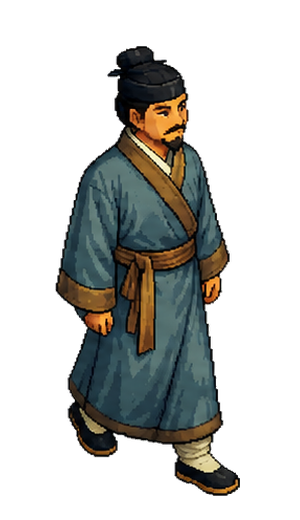
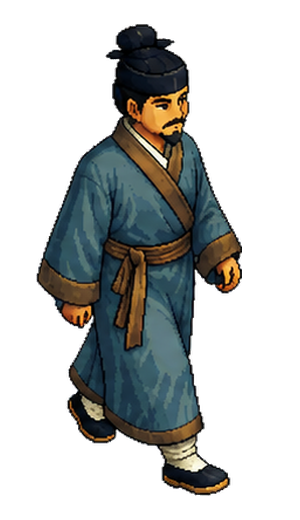
Mecenas: ciclo de andar ordenado a mano (alterna) + cabeza estable
La tira de IA estaba desbalanceada (casi todo un pie delante) y mi
normalización por-frame hacía "pulsar" el tamaño (la cabeza saltaba).

- Orden manual del ciclo de 4 tiempos con alternancia real: pie izq
  delante → paso (pies juntos) → pie dcho delante → paso. Elegidos a mano
  los dos únicos frames de zancada opuesta + las poses de pies juntos.
- Escala GLOBAL única (no por-frame) → sin pulsación de tamaño.
- Cuerpo/cabeza CONGELADO del frame base en los 4 fotogramas: solo animan
  los pies bajo el bajo de la túnica → cero temblor de cabeza.
- Verificado en el motor (captura en vivo de un mecenas andando).

Changed region(s): [[0.12, 0.0308, 0.81, 0.9538]]

diff --git a/admin-haciendas.html b/admin-haciendas.html
@@ -136,7 +136,7 @@
 <script src="assets/js/hac-store.js?v=5"></script>
 <script src="assets/js/hac-tareas.js?v=2"></script>
 <script src="assets/js/personajes-data.js?v=2"></script>
-<script src="assets/js/hac-char.js?v=8"></script>
+<script src="assets/js/hac-char.js?v=9"></script>
 <script src="assets/js/hac-personajes.js?v=3"></script>
 <script src="assets/js/hac-solicitudes.js?v=2"></script>
 <script src="assets/js/hac-perfiles.js?v=1"></script>

diff --git a/haciendas.html b/haciendas.html
@@ -76,7 +76,7 @@
 <script src="assets/js/hac-store.js?v=5"></script>
 <script src="assets/js/hac-tareas.js?v=2"></script>
 <script src="assets/js/personajes-data.js?v=2"></script>
-<script src="assets/js/hac-char.js?v=8"></script>
+<script src="assets/js/hac-char.js?v=9"></script>
 <script src="assets/js/hac-personajes.js?v=3"></script>
 <script src="assets/js/hac-solicitudes.js?v=2"></script>
 <script src="assets/js/hac-render.js?v=4"></script>

diff --git a/hacienda.html b/hacienda.html
@@ -35,7 +35,7 @@
 <script src="assets/js/hac-store.js?v=5"></script>
 <script src="assets/js/hac-tareas.js?v=2"></script>
 <script src="assets/js/personajes-data.js?v=2"></script>
-<script src="assets/js/hac-char.js?v=8"></script>
+<script src="assets/js/hac-char.js?v=9"></script>
 <script src="assets/js/hac-personajes.js?v=1"></script>
 <script src="assets/js/hac-render.js?v=4"></script>
 <script src="assets/js/hac-pixel.js?v=3"></script>

diff --git a/assets/js/hac-char.js b/assets/js/hac-char.js
@@ -519,7 +519,7 @@ const HacChar = (function () {
   }
   function pngLoad() {
     if (typeof document === 'undefined' || !document.createElement) return;
-    const base = 'assets/img/char/', V = '?v=2';
+    const base = 'assets/img/char/', V = '?v=3';
     pngImgs = {}; let need = 0, got = 0;
     const done = () => { if (++got >= need && !pngReadyFlag) { try { pngBake(); } catch (e) {} } };
     PNG_DIRS.forEach(v => {
